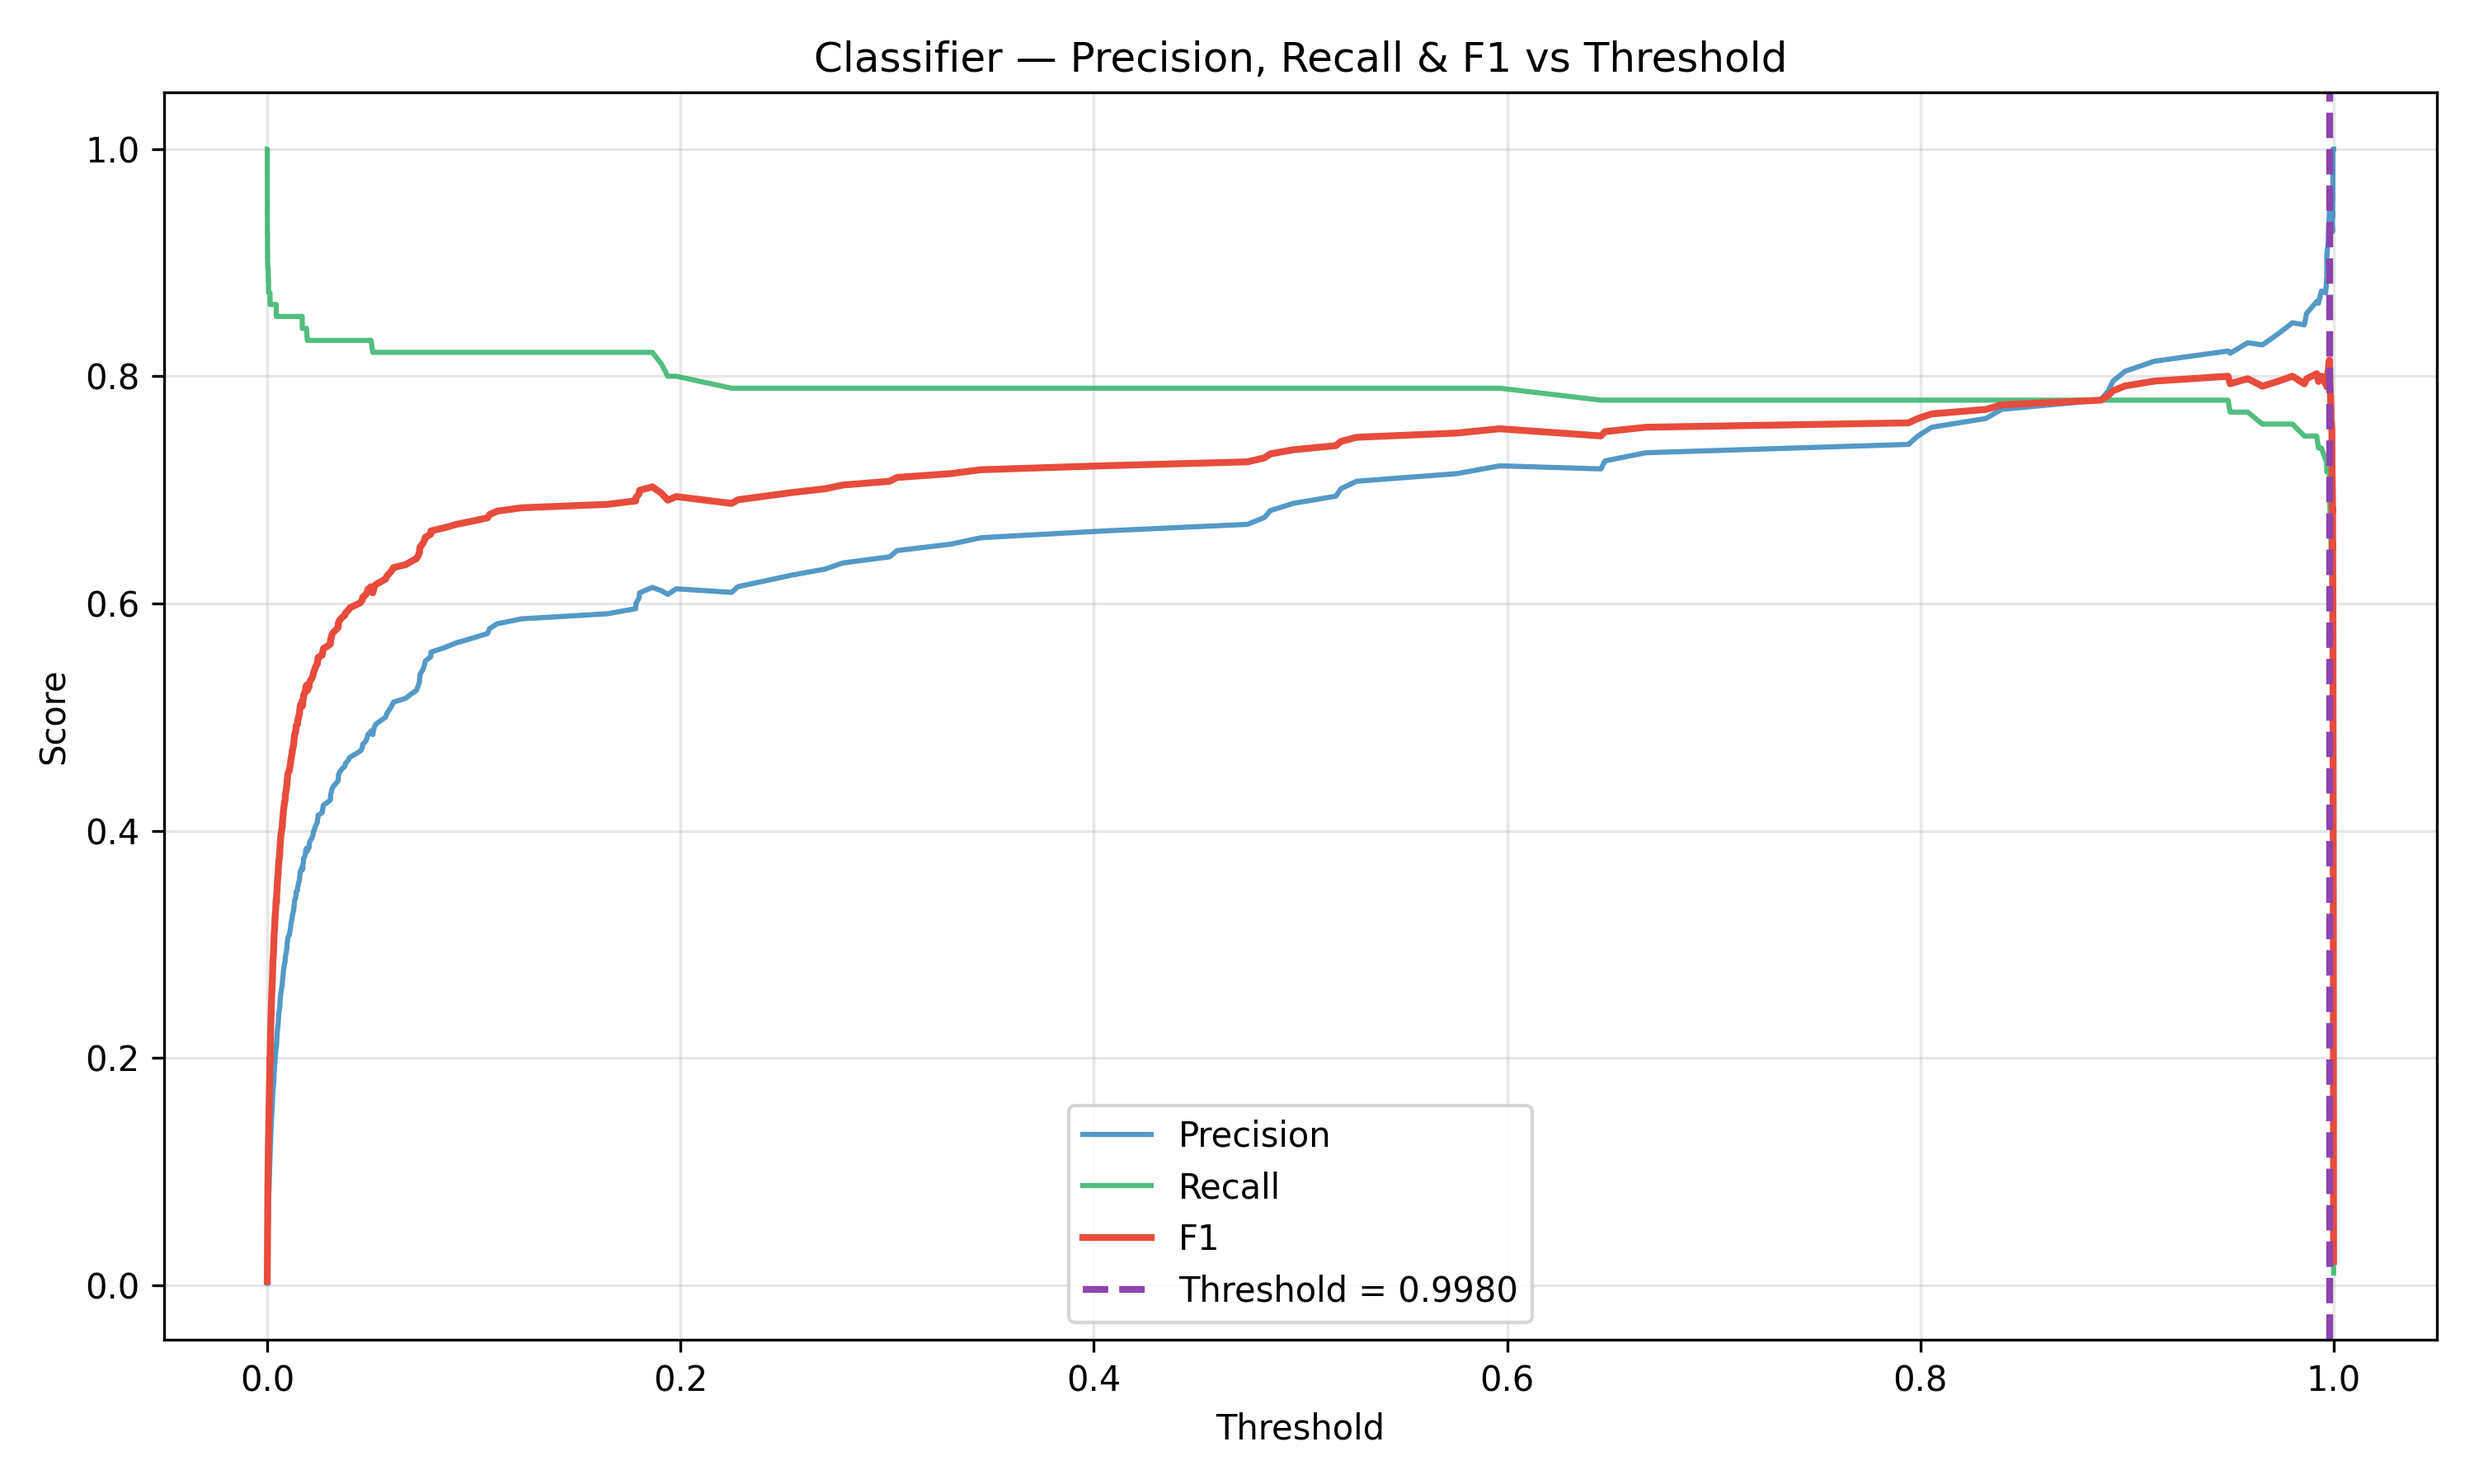
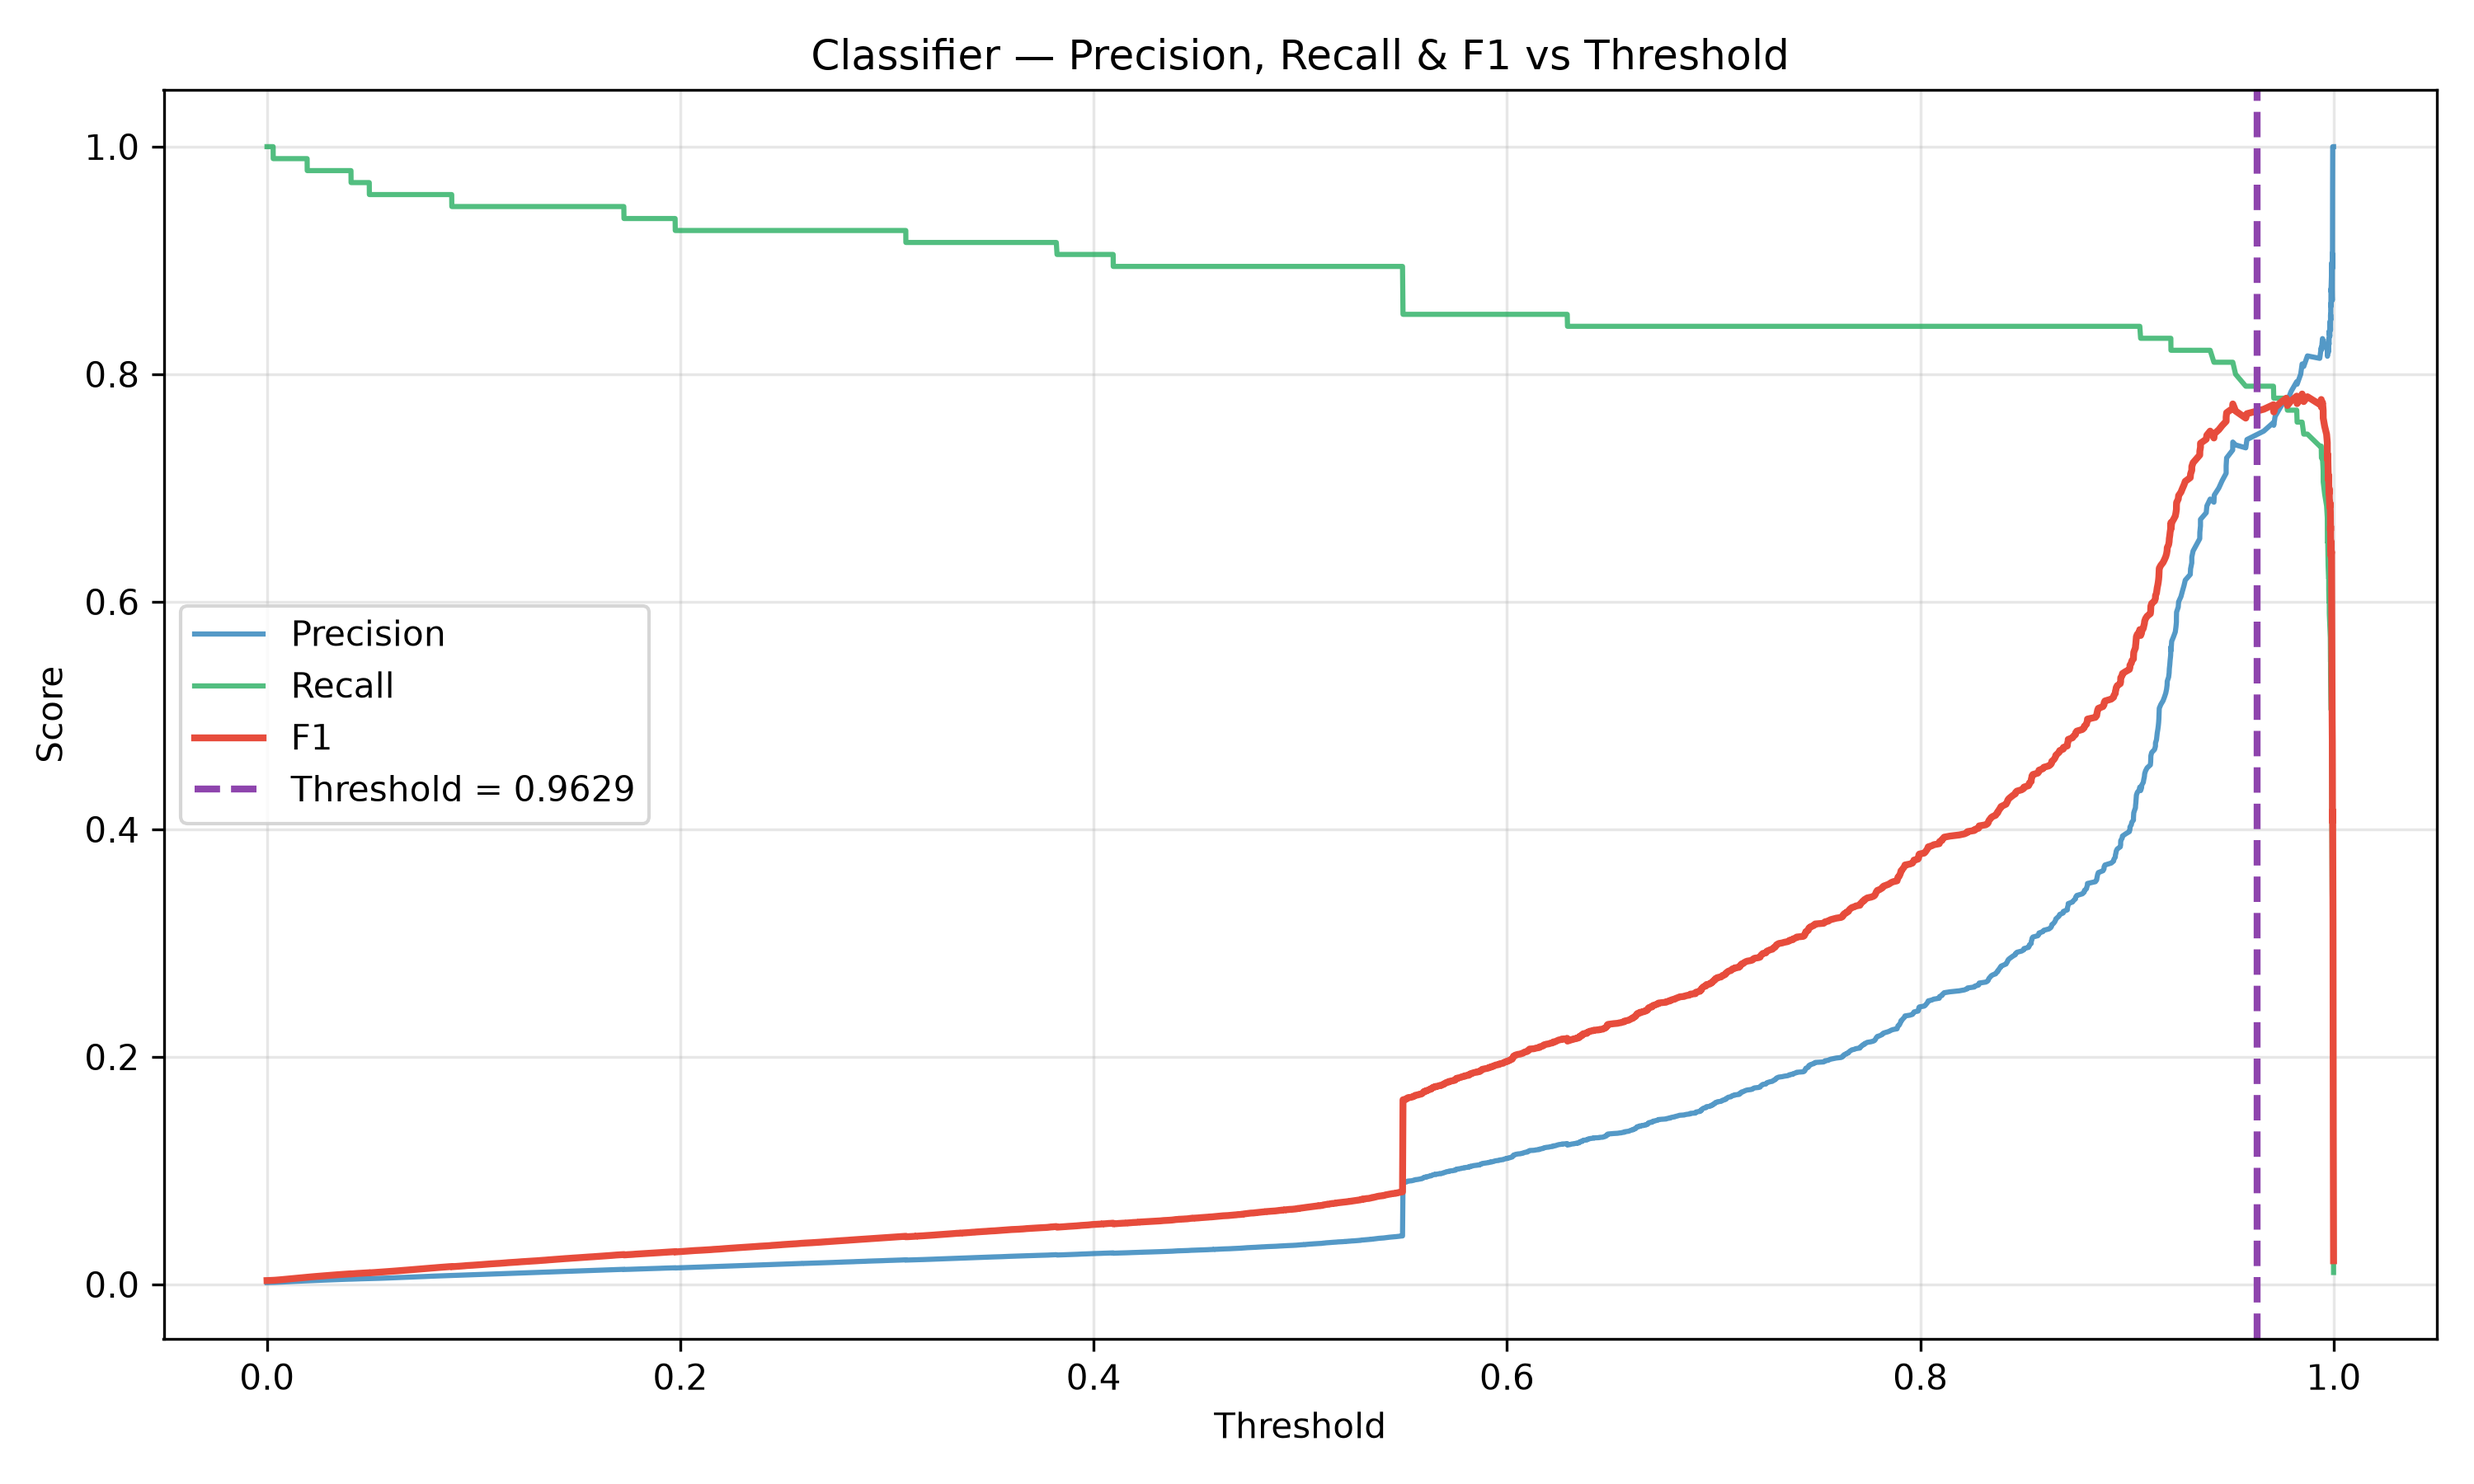
Modified the Classifier so that it uses the Contrastive trained encoder

diff --git a/Classifier_training.py b/Classifier_training.py
@@ -15,6 +15,7 @@ import os
 
 import pandas as pd
 import torch
+import yaml
 from torch.utils.data import DataLoader, TensorDataset
 
 from src.utils import load_config, setup_logging, set_seed, get_device, count_parameters
@@ -33,6 +34,17 @@ def train_classifier(config_path: str = "configs/classification_config.yaml", ev
         eval_only: If True, skip training and load existing checkpoint for evaluation.
     """
     config = load_config(config_path)
+
+    # Load encoder architecture (input_dim, hidden_dims) from the base model
+    # config (config.yaml) so FraudDetectionMLP is built with the exact same
+    # encoder shape as the contrastive pre-training — required for correct
+    # weight loading.
+    base_cfg_path = config.get("base_model_config", "configs/config.yaml")
+    with open(base_cfg_path, "r") as _f:
+        _base_cfg = yaml.safe_load(_f)
+    config["model"]["input_dim"]   = _base_cfg["model"]["input_dim"]
+    config["model"]["hidden_dims"] = _base_cfg["model"]["hidden_dims"]
+
     setup_logging(log_dir=config["paths"].get("log_dir"))
     set_seed(config.get("seed", 42))
     device = get_device(config)
@@ -44,6 +56,7 @@ def train_classifier(config_path: str = "configs/classification_config.yaml", ev
     batch_size = config["training"].get("batch_size", 512)
     drop_time  = config.get("drop_time", True)
     use_smote  = config.get("use_smote", True)
+    freeze_encoder = config.get("freeze_encoder", True)
 
     # Build the dataset via Preprocessing (scaling + stratified split)
     data = pd.read_csv("data/creditcard.csv")
@@ -71,8 +84,7 @@ def train_classifier(config_path: str = "configs/classification_config.yaml", ev
     )
 
     # Build the model
-    input_dim = X_train.shape[1]
-    model = FraudDetectionMLP(input_dim=input_dim).to(device)
+    model = FraudDetectionMLP(config=config).to(device)
     print(f"FraudDetectionMLP — {count_parameters(model):,} trainable parameters")
 
     # val_labels are needed by Trainer to compute F1/AUPRC on the validation set
@@ -82,6 +94,25 @@ def train_classifier(config_path: str = "configs/classification_config.yaml", ev
     trainer = Trainer(model=model, config=config)
 
     if not eval_only:
+
+        # Optionally load contrastive pre-trained encoder weights
+        pretrained_path = config.get("contrastive", {}).get(
+            "backbone_save_path", "pretrained_tabular_encoder.pth"
+        )
+        if os.path.isfile(pretrained_path):
+            model.encoder.load_state_dict(
+                torch.load(pretrained_path, map_location=device, weights_only=True)
+            )
+            print(f"Loaded pre-trained encoder weights from: {pretrained_path}")
+        else:
+            print("No pre-trained encoder found — training from scratch.")
+
+        # Optionally freeze encoder (train decoder only)
+        if freeze_encoder and os.path.isfile(pretrained_path):
+            for param in model.encoder.parameters():
+                param.requires_grad = False
+            print("Encoder frozen — training decoder only.")
+
         # Delegate the full training lifecycle to Trainer
         history = trainer.fit(train_loader=train_loader, val_loader=val_loader, val_labels=val_labels)
 

diff --git a/src/models/Classifier.py b/src/models/Classifier.py
@@ -1,31 +1,38 @@
 import torch
 import torch.nn as nn
 
+from .Autoencoder import Encoder
+
 class FraudDetectionMLP(nn.Module):
-    def __init__(self, input_dim=29, hidden_dim=128, dropout=0.3):
+    def __init__(self, config: dict):
         super().__init__()
-        
-        # We use BatchNorm1d which is incredibly highly recommended for tabular data 
-        # to keep the gradients stable across features of different scales.
-        self.network = nn.Sequential(
-            nn.Linear(input_dim, hidden_dim),
-            nn.BatchNorm1d(hidden_dim),
-            nn.ReLU(),
+
+        input_dim = config["model"]["input_dim"]
+        hidden_dims = config["model"]["hidden_dims"]
+        latent_dim = hidden_dims[-1]
+        dropout = config["model"]["dropout"]
+
+        self.encoder = Encoder(input_dim, hidden_dims)
+        self.classifier = nn.Sequential(
+
+            nn.Linear(latent_dim, latent_dim // 2),
+            nn.BatchNorm1d(latent_dim // 2),
+            nn.ReLU(), 
+            nn.Dropout(dropout), 
+
+            nn.Linear(latent_dim // 2, latent_dim // 4),
+            nn.BatchNorm1d(latent_dim // 4),
+            nn.ReLU(), 
             nn.Dropout(dropout),
-            
-            nn.Linear(hidden_dim, hidden_dim // 2),
-            nn.BatchNorm1d(hidden_dim // 2),
-            nn.ReLU(),
-            nn.Dropout(dropout),
-            
-            nn.Linear(hidden_dim // 2, hidden_dim // 4),
-            nn.BatchNorm1d(hidden_dim // 4),
-            nn.ReLU(),
-            
-            # Output layer: 1 node for binary classification
-            nn.Linear(hidden_dim // 4, 1) 
+
+            # Out layer
+            nn.Linear(latent_dim // 4, 1),
         )
+        
 
     def forward(self, x):
         # x shape: (batch_size, input_dim)
-        return self.network(x)
+        latent = self.encoder(x)
+        prediction = self.classifier(latent)
+
+        return prediction

diff --git a/src/utils.py b/src/utils.py
@@ -76,10 +76,14 @@ def _validate_config(config: dict) -> None:
             raise ValueError("'hidden_dims' must be a non-empty list of integers.")
 
     elif task == "classification":
-        # Classifier layout: model.encoder and model.decoder sub-dicts
-        for key in ["encoder", "decoder"]:
-            if key not in model_cfg:
-                raise ValueError(f"Missing required model key: '{key}'")
+        # Flat classifier layout: dropout is the only model key required here.
+        # input_dim and hidden_dims are intentionally absent from
+        # classification_config.yaml — they are injected at runtime from the
+        # base model config (config.yaml) in Classifier_training.py so that
+        # FraudDetectionMLP always uses the same encoder shape as the
+        # contrastive pre-training.
+        if "dropout" not in model_cfg:
+            raise ValueError("Missing required model key: 'dropout' (classification task).")
 
     elif task is None:
         raise ValueError("Missing required model key: 'task'. Must be 'reconstruction' or 'classification'.")
